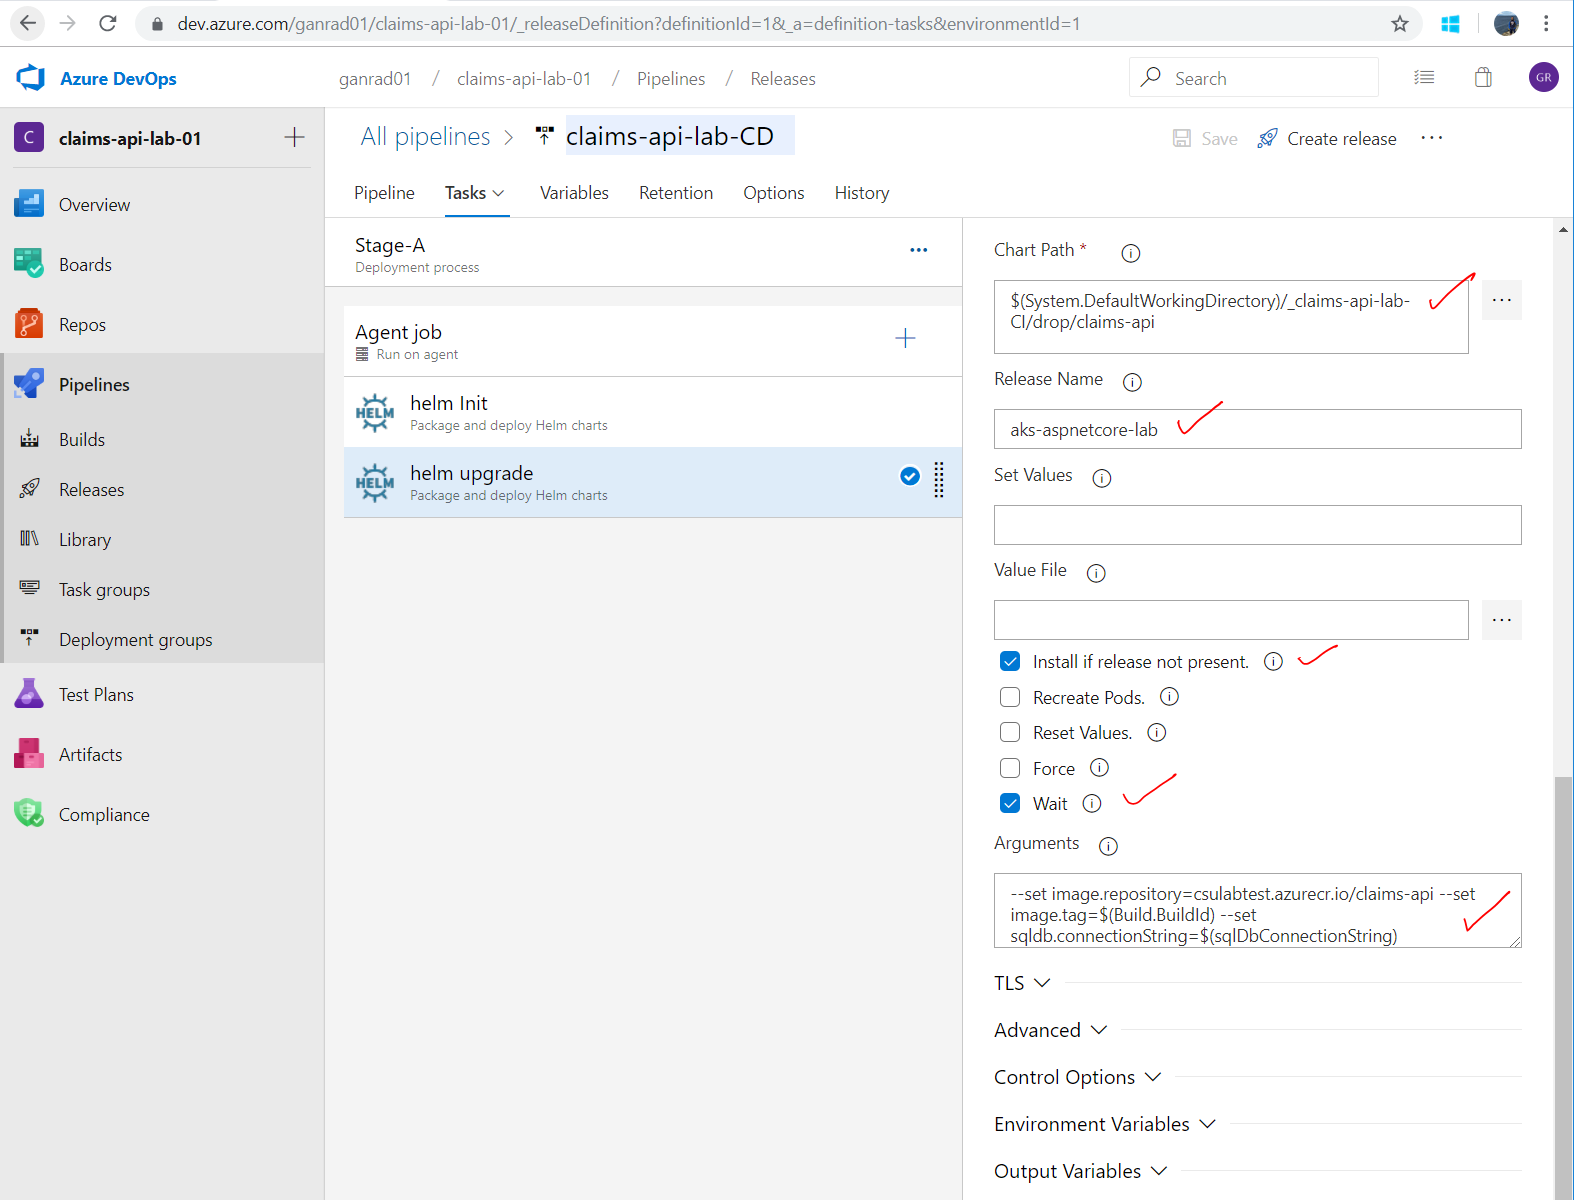
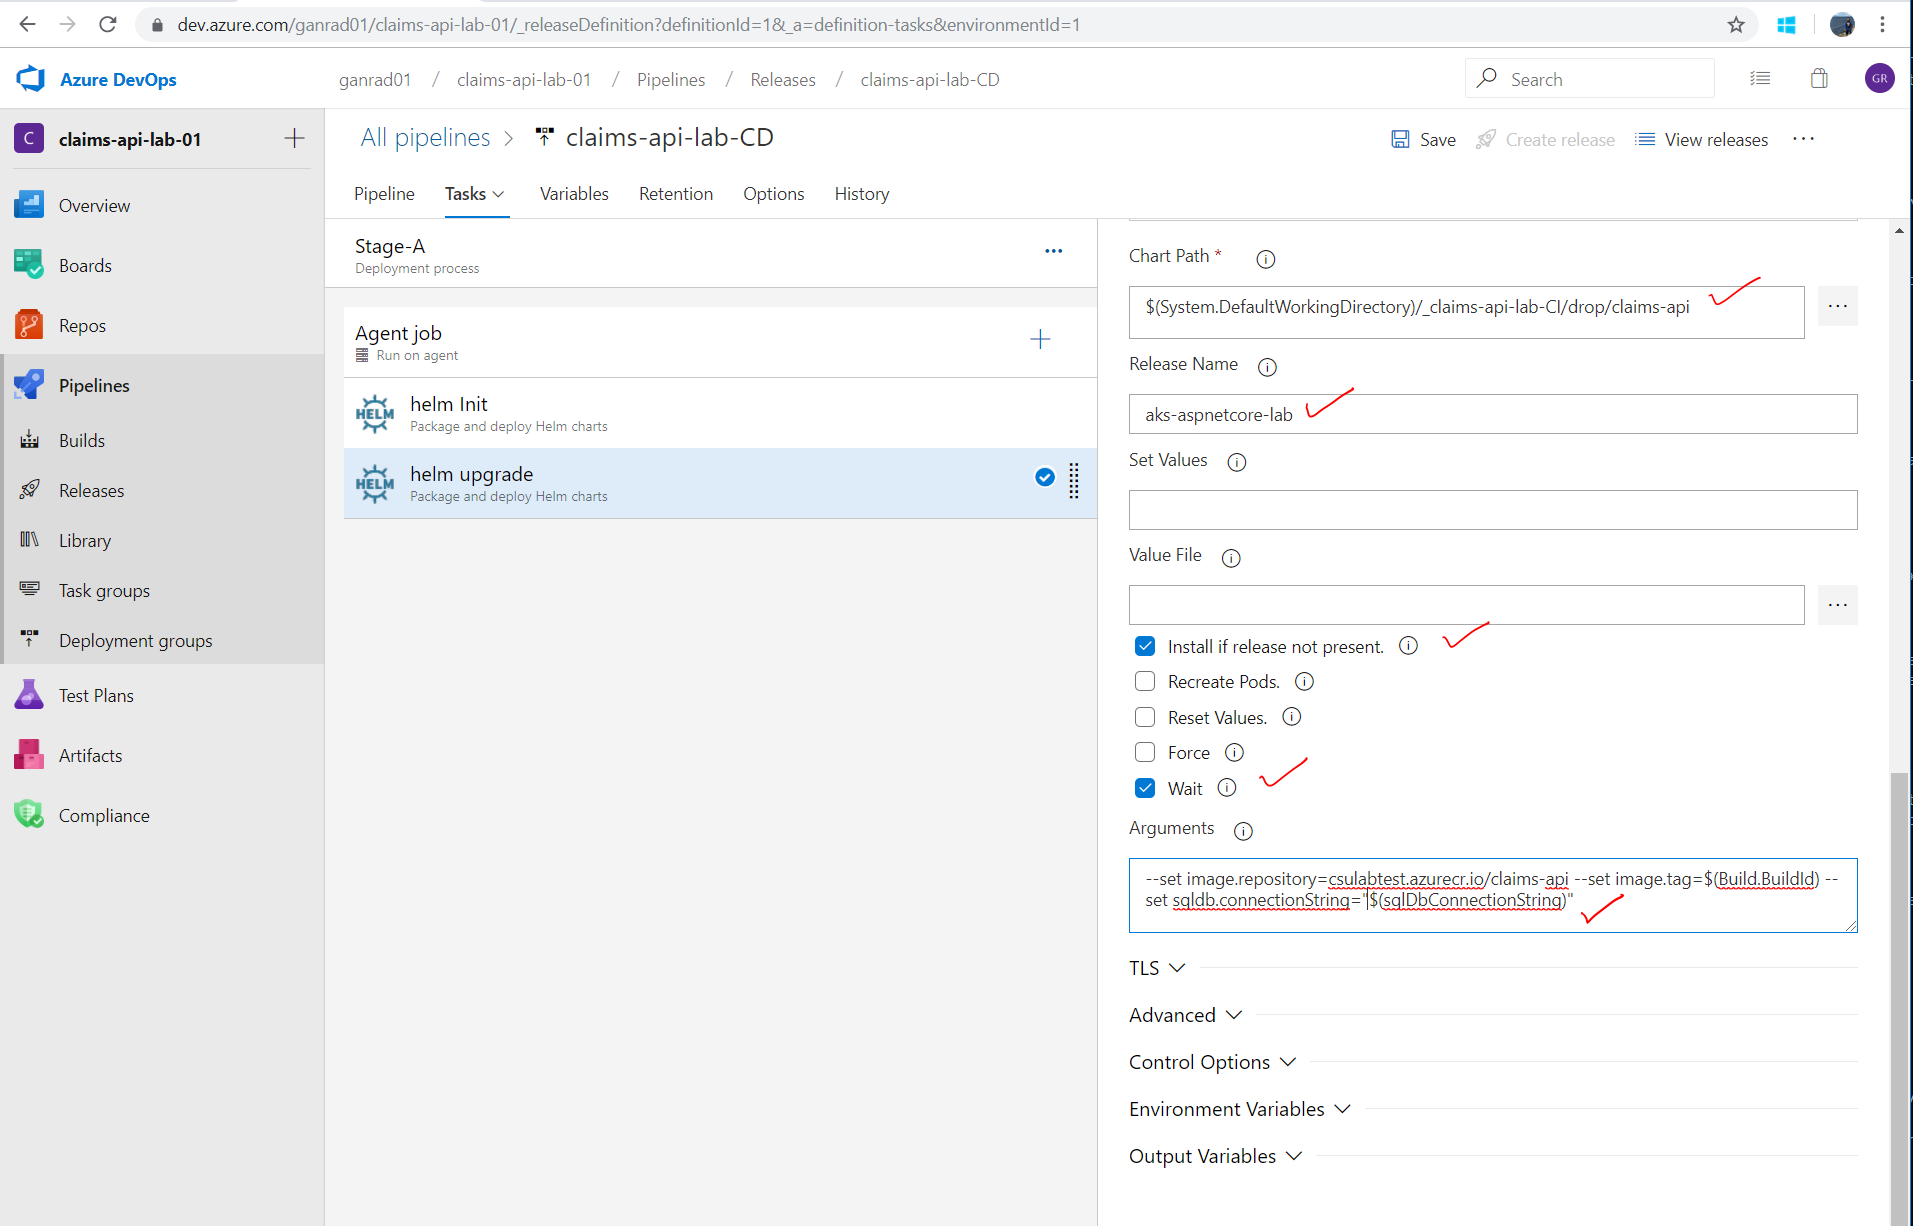
Updated Readme doc and image for section H

diff --git a/README.md b/README.md
@@ -802,7 +802,7 @@ In the next section, we will define a *Release Pipeline* in Azure DevOps to auto
     - Chart Type = `File Path`
     - Chart Path = `$(System.DefaultWorkingDirectory/_claims-api-lab-CI/drop/claims-api`
     - Release name = `aks-aspnetcore-lab`
-    - Arguments = `--set image.repository=<your-acr-repo>.azurecr.io/claims-api --set image.tag=$(Build.BuildId) --set sqldb.connectionString=$(sqlDbConnectionString)`
+    - Arguments = `--set image.repository=<your-acr-repo>.azurecr.io/claims-api --set image.tag=$(Build.BuildId) --set sqldb.connectionString="$(sqlDbConnectionString)"`
 
     See screenshots below.
 
